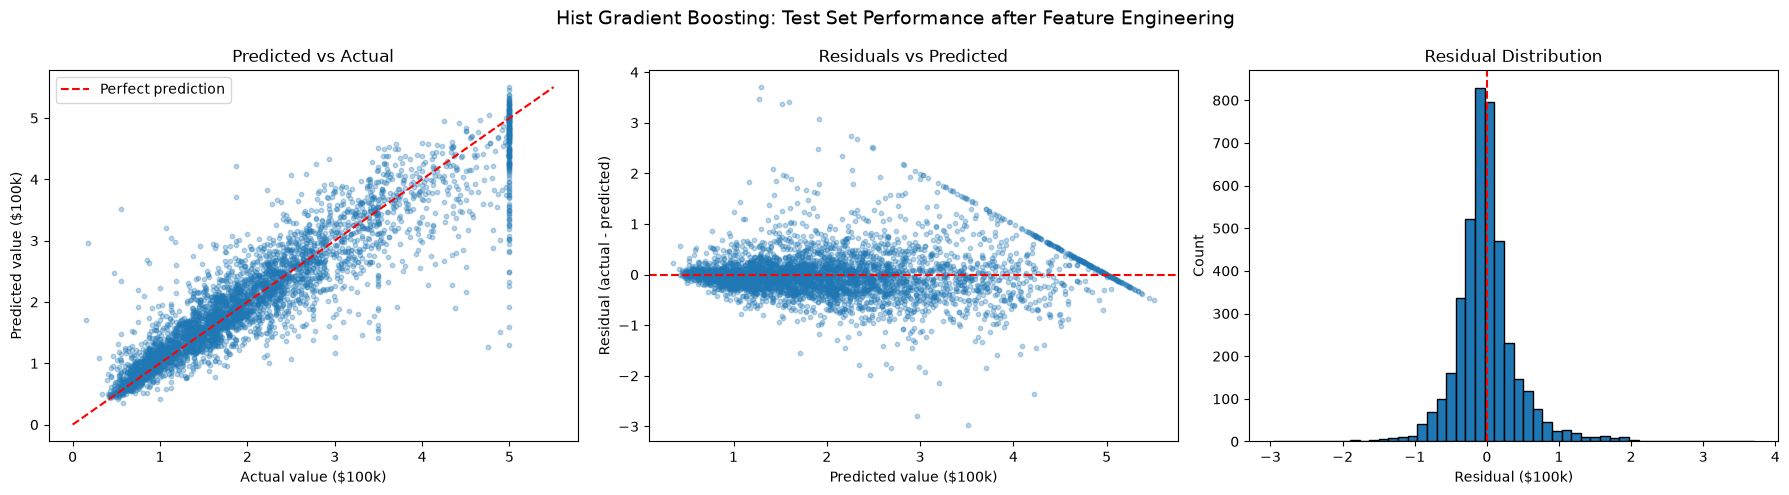
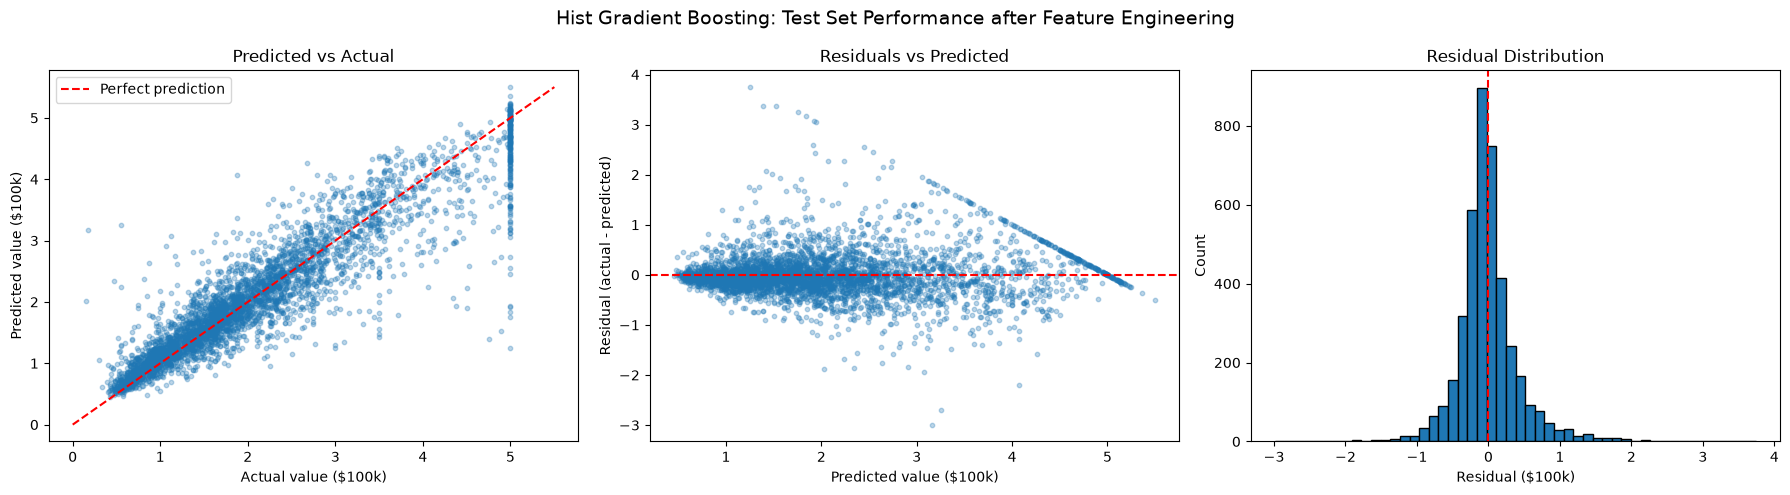
expand hyperparamter search range and update results

diff --git a/Price_predictor.py b/Price_predictor.py
@@ -76,7 +76,7 @@ print(f"Baseline RMSE scores with Dummy Regressor:\nmean: {base_scores.mean()}\n
 gradient_boost_params = {
     "histmodel__max_iter": [300, 500, 800, 1200],
     "histmodel__learning_rate": [num/100 for num in range(3, 20, 3)],
-    "histmodel__max_depth": range(3, 9),
+    "histmodel__max_depth": range(3, 20),
     "histmodel__min_samples_leaf": [10, 20, 25, 30, 40],
     "histmodel__l2_regularization": [0.0, 0.1, 0.2, 1.0]
 }

diff --git a/README.md b/README.md
@@ -1,6 +1,6 @@
 # California Housing Price Prediction
 
-Predicting median house values for California census block groups with scikit-learn. The project compares linear and tree-based regressors, tunes the best one with randomized search and 10-fold cross-validation, and tests whether engineered geographic features improve it using a paired fold-by-fold comparison. The final model is a histogram gradient boosting regressor with a test RMSE of about **$45.5k**, compared with about **$116k** for a mean-prediction baseline.
+Predicting median house values for California census block groups with scikit-learn. The project compares linear and tree-based regressors, tunes the best one with randomized search and 10-fold cross-validation, and tests whether engineered geographic features improve it using a paired fold-by-fold comparison. The final model is a histogram gradient boosting regressor with a test RMSE of about **$45.1k**, compared with about **$116k** for a mean-prediction baseline.
 
 | Before feature engineering | After feature engineering |
 |---|---|
@@ -8,23 +8,23 @@ Predicting median house values for California census block groups with scikit-le
 
 ## Results
 
-All numbers below are on a **held-out test set of 4,128 block groups** that was not used for tuning or feature decisions. The target is in units of $100k, so an RMSE of 0.455 is about $45.5k.
+All numbers below are on a **held-out test set of 4,128 block groups** that was not used for tuning or feature decisions. The target is in units of $100k, so an RMSE of 0.451 is about $45.1k.
 
 | Model | Test RMSE | Approx. error |
 |---|---|---|
 | Mean-prediction baseline (`DummyRegressor`) | 1.161 | $116k |
-| Hist gradient boosting, original features | 0.472 | $47.2k |
-| **Hist gradient boosting + engineered features** | **0.455** | **$45.5k** |
+| Hist gradient boosting, original features | 0.459 | $45.9k |
+| **Hist gradient boosting + engineered features** | **0.451** | **$45.1k** |
 
-Final model on the test set: **MAE 0.295 ($29.5k)**, **R² 0.846**, and RMSE of 0.417 ($41.7k) when the 5.1% of rows capped at $500k are excluded.
+Final model on the test set: **MAE 0.292 ($29.2k)**, **R² 0.849**, and RMSE of 0.414 ($41.4k) when the 5.1% of rows capped at $500k are excluded.
 
 ### Did the engineered features help?
 
 Yes, by a small but consistent amount. I tuned the model separately with and without the features, then compared the two on the **same 10 cross-validation folds** (training data only):
 
-- Mean RMSE gain: **0.0139 ± 0.0014** (standard error)
+- Mean RMSE gain: **0.0122 ± 0.0015** (standard error)
 - Folds improved: **10 of 10**
-- Test RMSE: 0.472 to 0.455 (about 3.6% lower), consistent with the cross-validation result
+- Test RMSE: 0.459 to 0.451 (about 1.7% lower). The test gain points the same way as the cross-validation gain but is smaller.
 
 ### Model selection (exploratory)
 
@@ -46,13 +46,13 @@ Both tree ensembles beat Ridge by a wide margin, which shows the relationship be
 - **Nonlinearity matters.** Tree ensembles cut error by roughly a third compared with Ridge.
 - **The target is capped at $500k.** 5.1% of test rows share the same maximum value, which produces the vertical column in the predicted-vs-actual plot and the diagonal streak in the residual plot. These rows contribute roughly a fifth of the total squared error, and no feature can fix them because the real values were never recorded.
 - **Errors grow with price.** The residual plot widens at higher predicted values, so the single RMSE hides the fact that cheap areas are predicted more accurately than expensive ones.
-- **Feature engineering gave a modest, verified gain**, and it left the structural problems above unchanged.
+- **Feature engineering gave a modest, verified gain** (about 1.7% lower test RMSE), and it left the structural problems above unchanged.
 
 ## Error analysis
 
-The 10 largest test errors, with locations inferred from their coordinates:
+The 10 largest test errors:
 
-- **Eight are under-predictions of expensive areas** (six of them at the $500k cap). Their coordinates correspond roughly to other medium-sized cities, and other places where prices look higher. The model predicted about 1.3 to 2.5 ($130k to $250k) for these rows.
+- **Eight are under-predictions of expensive areas** (five of them at the $500k cap, and the rest between $450k and $490k). Several lie far from the five reference cities used for the distance features. The model predicted only about 1.25 to 1.94 ($125k to $195k) for these rows.
 - **Two are over-predictions** in big city areas, where the recorded values are unusually low (0.55 and 0.175, i.e. $55k and $17.5k) and the model's location features pushed predictions up.
 - **One of the worst rows has median income exactly at the dataset's minimum (0.4999)**, which suggests the income feature is also floored or capped.
 
@@ -61,16 +61,15 @@ Likely explanation (a hypothesis, not tested): median income does not capture we
 ## Approach
 
 **1. Data and split**
-- scikit-learn's California housing dataset: 20,640 block groups, 8 numeric features, target is median house value in units of $100k. The data comes from the 1990 census, so the dollar values are not current prices.
-- 80/20 train/test split (`random_state=2`). The test set is used once, for final evaluation.
+- 80/20 train/test split (`random_state=2`). The test set is held out for final evaluation. I evaluated on it twice in total: once with an initial search grid and once after widening the `max_depth` range.
 
 **2. Baseline and model comparison**
 - A mean-prediction `DummyRegressor` sets the baseline to beat.
 - Ridge, random forest, and gradient boosting were compared with cross-validated RMSE.
 
 **3. Hyperparameter tuning**
-- `RandomizedSearchCV` with 100 sampled combinations, 10-fold `KFold` (shuffled, seeded), scored by RMSE, run on the training data only.
-- Final parameters: `max_iter=500`, `learning_rate=0.15`, `max_depth=5`, `min_samples_leaf=25`, `l2_regularization=0.0`.
+- `RandomizedSearchCV` with 100 sampled combinations, 10-fold `KFold` (shuffled, seeded), scored by RMSE, run on the training data only. The search covers `max_iter`, `learning_rate`, `max_depth`, `min_samples_leaf`, and `l2_regularization`, and each configuration (with and without the engineered features) was tuned separately.
+- Final parameters for the engineered-feature model: `max_iter=500`, `learning_rate=0.06`, `max_depth=12`, `min_samples_leaf=30`, `l2_regularization=1.0`.
 
 **4. Feature engineering (inside the pipeline)**
 - Straight-line distance (in degrees of latitude and longitude) from each block group to San Francisco, Los Angeles, San Diego, San Jose, and Sacramento, plus the minimum of those five.
@@ -79,7 +78,7 @@ Likely explanation (a hypothesis, not tested): median income does not capture we
 
 **5. Evaluation**
 - Paired fold-by-fold comparison on the training data to decide whether the features help.
-- A single final evaluation on the test set: RMSE, MAE, R², and RMSE with and without capped rows.
+- A final evaluation on the test set: RMSE, MAE, R², and RMSE with and without capped rows.
 - Predicted-vs-actual, residual-vs-predicted, and residual-distribution plots.
 
 ## What I learned
@@ -87,11 +86,13 @@ Likely explanation (a hypothesis, not tested): median income does not capture we
 - Pipelines keep preprocessing and feature steps inside cross-validation, which prevents leakage.
 - Cross-validation scores that include the test rows are optimistic. I caught this partway through the project and moved all tuning and feature decisions to training data only.
 - Comparing two models on identical folds, and counting how many folds improve, is much more informative than comparing two overall averages.
+- The size of a feature gain depends on the search range. When I widened the `max_depth` range from 3 to 5 up to 3 to 19, the model without engineered features improved from 0.472 to 0.459 test RMSE, and the gain from the features roughly halved (0.017 to 0.008). My guess is that deeper trees can learn some of the geographic structure from raw latitude and longitude, but I did not test that.
 - Looking at where a model fails (the cap, the funnel, specific regions) is as valuable as the headline metric.
 
 ## Limitations and next steps
 
 - **Top-coded target.** Values above $500k are recorded as the maximum, which limits achievable accuracy. A censored-data model would be the principled fix.
-- **Early comparisons used all rows.** The baseline and the first model comparison were cross-validated on the full dataset, including the test rows. The gaps between models were large, so the model choice is unlikely to change, but the final tuning and feature decisions use training data only, and the test set was used once.
-- **No per-feature diff.** I tested the engineered features as a group, so I can't say which ones carry the gain. Some features scould cause certain predictions to vary.
+- **Early comparisons used all rows.** The baseline and the first model comparison were cross-validated on the full dataset, including the test rows. The gaps between models were large, so the model choice is unlikely to change, but the final tuning and feature decisions use training data only, and the test set was used only for final evaluation.
+- **Search grid edge.** The chosen hyperparameter values were bound in search, so larger or smaller values might help slightly.
+- **No per-feature ablation.** I tested the engineered features as a group, so I can't say which ones carry the gain. Some of them, such as the log of population, are probably redundant for tree models.
 - **Ideas:** distance to the coast and college cities, a better treatment of the capped rows, and a stacked or blended model.
